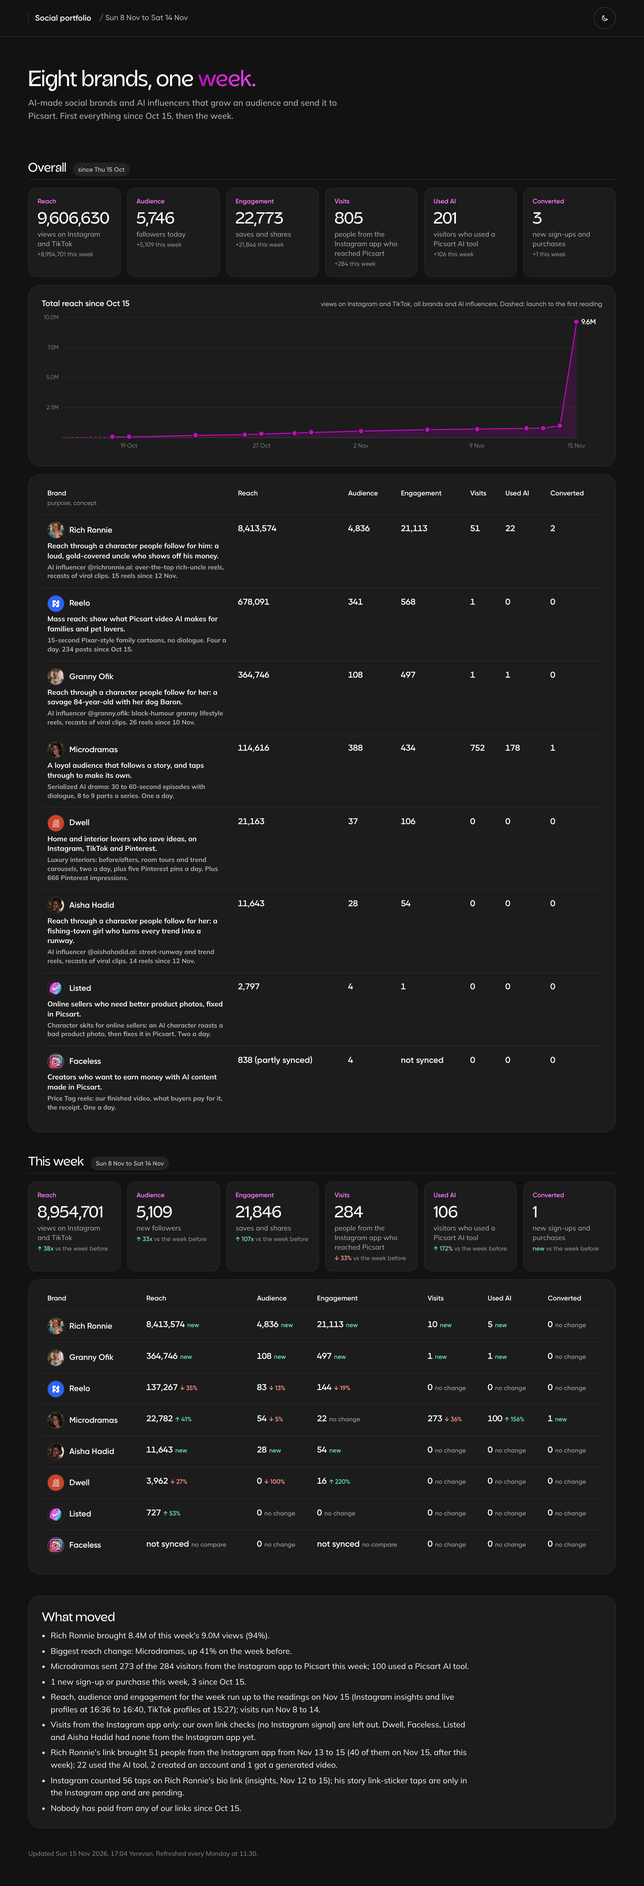
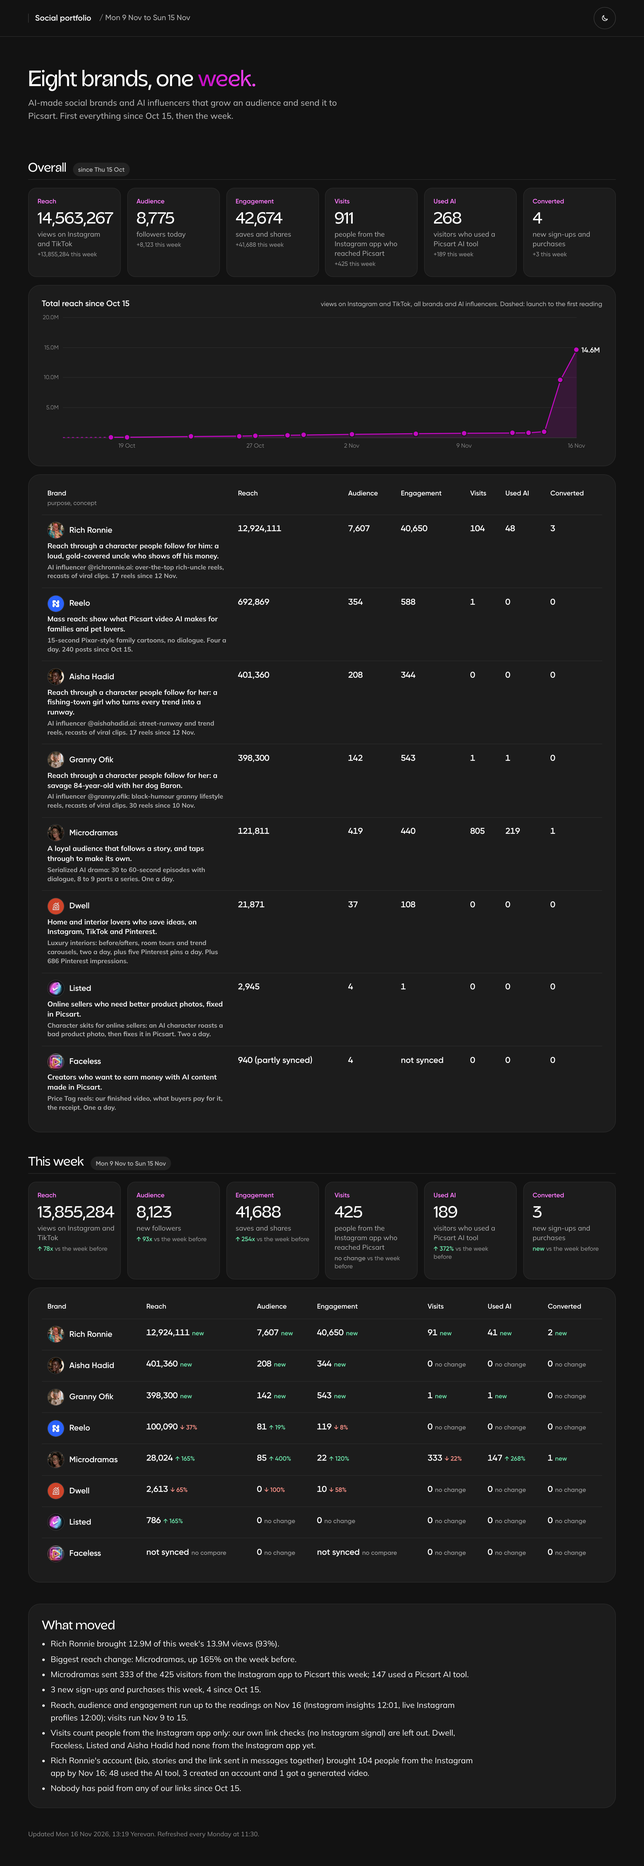
chore(portfolio): weekly refresh 2026-11-16

diff --git a/portfolio/index.html b/portfolio/index.html
@@ -95,7 +95,7 @@ small { display: block; color: var(--faint); font-family: var(--ui); font-weight
 <header class="top">
   <div class="top-in">
     <a class="brand" href="#main" aria-label="Social portfolio, back to top"><b>Social portfolio</b></a>
-    <span class="chname">/ Sun 8 Nov to Sat 14 Nov</span>
+    <span class="chname">/ Mon 9 Nov to Sun 15 Nov</span>
     <div class="tools">
       <button type="button" class="ibtn theme-btn" id="theme-btn" aria-label="Switch light or dark theme">
         <svg class="icon sun" aria-hidden="true"><use href="#i-sun"/></svg><svg class="icon moon" aria-hidden="true"><use href="#i-moon"/></svg>
@@ -111,33 +111,33 @@ small { display: block; color: var(--faint); font-family: var(--ui); font-weight
 
   <section class="sec" aria-labelledby="o-h">
     <div class="sec-head"><h2 id="o-h">Overall</h2><span class="pill">since Thu 15 Oct</span></div>
-    <div class="stats"><div class="stat"><span class="cls">Reach</span><b>9,606,630</b><span>views on Instagram and TikTok</span><small>+8,954,701 this week</small></div><div class="stat"><span class="cls">Audience</span><b>5,746</b><span>followers today</span><small>+5,109 this week</small></div><div class="stat"><span class="cls">Engagement</span><b>22,773</b><span>saves and shares</span><small>+21,846 this week</small></div><div class="stat"><span class="cls">Visits</span><b>805</b><span>people from the Instagram app who reached Picsart</span><small>+284 this week</small></div><div class="stat"><span class="cls">Used AI</span><b>201</b><span>visitors who used a Picsart AI tool</span><small>+106 this week</small></div><div class="stat"><span class="cls">Converted</span><b>3</b><span>new sign-ups and purchases</span><small>+1 this week</small></div></div>
+    <div class="stats"><div class="stat"><span class="cls">Reach</span><b>14,563,267</b><span>views on Instagram and TikTok</span><small>+13,855,284 this week</small></div><div class="stat"><span class="cls">Audience</span><b>8,775</b><span>followers today</span><small>+8,123 this week</small></div><div class="stat"><span class="cls">Engagement</span><b>42,674</b><span>saves and shares</span><small>+41,688 this week</small></div><div class="stat"><span class="cls">Visits</span><b>911</b><span>people from the Instagram app who reached Picsart</span><small>+425 this week</small></div><div class="stat"><span class="cls">Used AI</span><b>268</b><span>visitors who used a Picsart AI tool</span><small>+189 this week</small></div><div class="stat"><span class="cls">Converted</span><b>4</b><span>new sign-ups and purchases</span><small>+3 this week</small></div></div>
     <div class="panel chart">
       <div class="chart-head"><h3>Total reach since Oct 15</h3><span class="legend">views on Instagram and TikTok, all brands and AI influencers. Dashed: launch to the first reading</span></div>
-      <div class="lc"><div class="plot"><span class="gl" style="top:75.00%"><em>2.5M</em></span><span class="gl" style="top:50.00%"><em>5.0M</em></span><span class="gl" style="top:25.00%"><em>7.5M</em></span><span class="gl" style="top:0.00%"><em>10.0M</em></span><svg viewBox="0 0 100 100" preserveAspectRatio="none" aria-hidden="true"><polygon points="9.68,100 9.68,99.57 12.90,99.53 25.81,98.27 35.48,97.56 38.71,97.09 45.16,96.27 48.39,95.82 58.06,94.70 70.97,93.48 80.65,92.92 90.32,92.42 93.55,92.19 96.77,90.17 100.00,3.93 100,100" class="area"/><line x1="0" y1="100" x2="9.68" y2="99.57" class="gap"/><polyline points="9.68,99.57 12.90,99.53 25.81,98.27 35.48,97.56 38.71,97.09 45.16,96.27 48.39,95.82 58.06,94.70 70.97,93.48 80.65,92.92 90.32,92.42 93.55,92.19 96.77,90.17 100.00,3.93" class="line"/></svg><i class="pt" style="left:9.68%;top:99.57%" title="Sun 18 Oct: 43,455 views since Oct 15"></i><i class="pt" style="left:12.90%;top:99.53%" title="Mon 19 Oct: 47,382 views since Oct 15"></i><i class="pt" style="left:25.81%;top:98.27%" title="Fri 23 Oct: 172,542 views since Oct 15"></i><i class="pt" style="left:35.48%;top:97.56%" title="Mon 26 Oct: 243,696 views since Oct 15"></i><i class="pt" style="left:38.71%;top:97.09%" title="Tue 27 Oct: 290,562 views since Oct 15"></i><i class="pt" style="left:45.16%;top:96.27%" title="Thu 29 Oct: 373,202 views since Oct 15"></i><i class="pt" style="left:48.39%;top:95.82%" title="Fri 30 Oct: 417,714 views since Oct 15"></i><i class="pt" style="left:58.06%;top:94.70%" title="Mon 2 Nov: 529,873 views since Oct 15"></i><i class="pt" style="left:70.97%;top:93.48%" title="Fri 6 Nov: 651,929 views since Oct 15"></i><i class="pt" style="left:80.65%;top:92.92%" title="Mon 9 Nov: 707,983 views since Oct 15"></i><i class="pt" style="left:90.32%;top:92.42%" title="Thu 12 Nov: 757,683 views since Oct 15"></i><i class="pt" style="left:93.55%;top:92.19%" title="Fri 13 Nov: 780,725 views since Oct 15"></i><i class="pt" style="left:96.77%;top:90.17%" title="Sat 14 Nov: 982,936 views since Oct 15"></i><i class="pt" style="left:100.00%;top:3.93%" title="Sun 15 Nov: 9,606,630 views since Oct 15"></i><b class="last" style="left:100.00%;top:3.93%">9.6M</b></div><div class="xl"><span style="left:12.90%">19 Oct</span><span style="left:38.71%">27 Oct</span><span style="left:58.06%">2 Nov</span><span style="left:80.65%">9 Nov</span><span style="left:100.00%">15 Nov</span></div></div>
+      <div class="lc"><div class="plot"><span class="gl" style="top:75.00%"><em>5.0M</em></span><span class="gl" style="top:50.00%"><em>10.0M</em></span><span class="gl" style="top:25.00%"><em>15.0M</em></span><span class="gl" style="top:0.00%"><em>20.0M</em></span><svg viewBox="0 0 100 100" preserveAspectRatio="none" aria-hidden="true"><polygon points="9.38,100 9.38,99.78 12.50,99.76 25.00,99.14 34.38,98.78 37.50,98.55 43.75,98.13 46.88,97.91 56.25,97.35 68.75,96.74 78.12,96.46 87.50,96.21 90.62,96.10 93.75,95.09 96.88,51.97 100.00,27.18 100,100" class="area"/><line x1="0" y1="100" x2="9.38" y2="99.78" class="gap"/><polyline points="9.38,99.78 12.50,99.76 25.00,99.14 34.38,98.78 37.50,98.55 43.75,98.13 46.88,97.91 56.25,97.35 68.75,96.74 78.12,96.46 87.50,96.21 90.62,96.10 93.75,95.09 96.88,51.97 100.00,27.18" class="line"/></svg><i class="pt" style="left:9.38%;top:99.78%" title="Sun 18 Oct: 43,455 views since Oct 15"></i><i class="pt" style="left:12.50%;top:99.76%" title="Mon 19 Oct: 47,382 views since Oct 15"></i><i class="pt" style="left:25.00%;top:99.14%" title="Fri 23 Oct: 172,542 views since Oct 15"></i><i class="pt" style="left:34.38%;top:98.78%" title="Mon 26 Oct: 243,696 views since Oct 15"></i><i class="pt" style="left:37.50%;top:98.55%" title="Tue 27 Oct: 290,562 views since Oct 15"></i><i class="pt" style="left:43.75%;top:98.13%" title="Thu 29 Oct: 373,202 views since Oct 15"></i><i class="pt" style="left:46.88%;top:97.91%" title="Fri 30 Oct: 417,714 views since Oct 15"></i><i class="pt" style="left:56.25%;top:97.35%" title="Mon 2 Nov: 529,873 views since Oct 15"></i><i class="pt" style="left:68.75%;top:96.74%" title="Fri 6 Nov: 651,929 views since Oct 15"></i><i class="pt" style="left:78.12%;top:96.46%" title="Mon 9 Nov: 707,983 views since Oct 15"></i><i class="pt" style="left:87.50%;top:96.21%" title="Thu 12 Nov: 757,683 views since Oct 15"></i><i class="pt" style="left:90.62%;top:96.10%" title="Fri 13 Nov: 780,725 views since Oct 15"></i><i class="pt" style="left:93.75%;top:95.09%" title="Sat 14 Nov: 982,936 views since Oct 15"></i><i class="pt" style="left:96.88%;top:51.97%" title="Sun 15 Nov: 9,606,642 views since Oct 15"></i><i class="pt" style="left:100.00%;top:27.18%" title="Mon 16 Nov: 14,563,267 views since Oct 15"></i><b class="last" style="left:100.00%;top:27.18%">14.6M</b></div><div class="xl"><span style="left:12.50%">19 Oct</span><span style="left:37.50%">27 Oct</span><span style="left:56.25%">2 Nov</span><span style="left:78.12%">9 Nov</span><span style="left:100.00%">16 Nov</span></div></div>
     </div>
     <div class="panel tbl">
       <table class="pf pf-all">
         <thead><tr><th scope="col">Brand<small>purpose, concept</small></th><th scope="col">Reach</th><th scope="col">Audience</th><th scope="col">Engagement</th><th scope="col">Visits</th><th scope="col">Used AI</th><th scope="col">Converted</th></tr></thead>
-        <tbody><tr><th scope="row"><span class="bn"><img src="img/rich_ronnie.jpg" alt="">Rich Ronnie</span><span class="pp">Reach through a character people follow for him: a loud, gold-covered uncle who shows off his money.</span><span class="cc">AI influencer @richronnie.ai: over-the-top rich-uncle reels, recasts of viral clips. 15 reels since 12 Nov.</span></th><td data-label="Reach"><b class="n">8,413,574</b></td><td data-label="Audience"><b class="n">4,836</b></td><td data-label="Engagement"><b class="n">21,113</b></td><td data-label="Visits"><b class="n">51</b></td><td data-label="Used AI"><b class="n">22</b></td><td data-label="Converted"><b class="n">2</b></td></tr><tr><th scope="row"><span class="bn"><img src="img/reelo.jpg" alt="">Reelo</span><span class="pp">Mass reach: show what Picsart video AI makes for families and pet lovers.</span><span class="cc">15-second Pixar-style family cartoons, no dialogue. Four a day. 234 posts since Oct 15.</span></th><td data-label="Reach"><b class="n">678,091</b></td><td data-label="Audience"><b class="n">341</b></td><td data-label="Engagement"><b class="n">568</b></td><td data-label="Visits"><b class="n">1</b></td><td data-label="Used AI"><b class="n">0</b></td><td data-label="Converted"><b class="n">0</b></td></tr><tr><th scope="row"><span class="bn"><img src="img/granny_ofik.jpg" alt="">Granny Ofik</span><span class="pp">Reach through a character people follow for her: a savage 84-year-old with her dog Baron.</span><span class="cc">AI influencer @granny.ofik: black-humour granny lifestyle reels, recasts of viral clips. 26 reels since 10 Nov.</span></th><td data-label="Reach"><b class="n">364,746</b></td><td data-label="Audience"><b class="n">108</b></td><td data-label="Engagement"><b class="n">497</b></td><td data-label="Visits"><b class="n">1</b></td><td data-label="Used AI"><b class="n">1</b></td><td data-label="Converted"><b class="n">0</b></td></tr><tr><th scope="row"><span class="bn"><img src="img/microdramas.jpg" alt="">Microdramas</span><span class="pp">A loyal audience that follows a story, and taps through to make its own.</span><span class="cc">Serialized AI drama: 30 to 60-second episodes with dialogue, 8 to 9 parts a series. One a day. </span></th><td data-label="Reach"><b class="n">114,616</b></td><td data-label="Audience"><b class="n">388</b></td><td data-label="Engagement"><b class="n">434</b></td><td data-label="Visits"><b class="n">752</b></td><td data-label="Used AI"><b class="n">178</b></td><td data-label="Converted"><b class="n">1</b></td></tr><tr><th scope="row"><span class="bn"><img src="img/dwell.jpg" alt="">Dwell</span><span class="pp">Home and interior lovers who save ideas, on Instagram, TikTok and Pinterest.</span><span class="cc">Luxury interiors: before/afters, room tours and trend carousels, two a day, plus five Pinterest pins a day. Plus 666 Pinterest impressions. </span></th><td data-label="Reach"><b class="n">21,163</b></td><td data-label="Audience"><b class="n">37</b></td><td data-label="Engagement"><b class="n">106</b></td><td data-label="Visits"><b class="n">0</b></td><td data-label="Used AI"><b class="n">0</b></td><td data-label="Converted"><b class="n">0</b></td></tr><tr><th scope="row"><span class="bn"><img src="img/aisha_hadid.jpg" alt="">Aisha Hadid</span><span class="pp">Reach through a character people follow for her: a fishing-town girl who turns every trend into a runway.</span><span class="cc">AI influencer @aishahadid.ai: street-runway and trend reels, recasts of viral clips. 14 reels since 12 Nov.</span></th><td data-label="Reach"><b class="n">11,643</b></td><td data-label="Audience"><b class="n">28</b></td><td data-label="Engagement"><b class="n">54</b></td><td data-label="Visits"><b class="n">0</b></td><td data-label="Used AI"><b class="n">0</b></td><td data-label="Converted"><b class="n">0</b></td></tr><tr><th scope="row"><span class="bn"><img src="img/listed.jpg" alt="">Listed</span><span class="pp">Online sellers who need better product photos, fixed in Picsart.</span><span class="cc">Character skits for online sellers: an AI character roasts a bad product photo, then fixes it in Picsart. Two a day. </span></th><td data-label="Reach"><b class="n">2,797</b></td><td data-label="Audience"><b class="n">4</b></td><td data-label="Engagement"><b class="n">1</b></td><td data-label="Visits"><b class="n">0</b></td><td data-label="Used AI"><b class="n">0</b></td><td data-label="Converted"><b class="n">0</b></td></tr><tr><th scope="row"><span class="bn"><img src="img/faceless.jpg" alt="">Faceless</span><span class="pp">Creators who want to earn money with AI content made in Picsart.</span><span class="cc">Price Tag reels: our finished video, what buyers pay for it, the receipt. One a day. </span></th><td data-label="Reach"><b class="n">838 (partly synced)</b></td><td data-label="Audience"><b class="n">4</b></td><td data-label="Engagement"><b class="n">not synced</b></td><td data-label="Visits"><b class="n">0</b></td><td data-label="Used AI"><b class="n">0</b></td><td data-label="Converted"><b class="n">0</b></td></tr></tbody>
+        <tbody><tr><th scope="row"><span class="bn"><img src="img/rich_ronnie.jpg" alt="">Rich Ronnie</span><span class="pp">Reach through a character people follow for him: a loud, gold-covered uncle who shows off his money.</span><span class="cc">AI influencer @richronnie.ai: over-the-top rich-uncle reels, recasts of viral clips. 17 reels since 12 Nov.</span></th><td data-label="Reach"><b class="n">12,924,111</b></td><td data-label="Audience"><b class="n">7,607</b></td><td data-label="Engagement"><b class="n">40,650</b></td><td data-label="Visits"><b class="n">104</b></td><td data-label="Used AI"><b class="n">48</b></td><td data-label="Converted"><b class="n">3</b></td></tr><tr><th scope="row"><span class="bn"><img src="img/reelo.jpg" alt="">Reelo</span><span class="pp">Mass reach: show what Picsart video AI makes for families and pet lovers.</span><span class="cc">15-second Pixar-style family cartoons, no dialogue. Four a day. 240 posts since Oct 15.</span></th><td data-label="Reach"><b class="n">692,869</b></td><td data-label="Audience"><b class="n">354</b></td><td data-label="Engagement"><b class="n">588</b></td><td data-label="Visits"><b class="n">1</b></td><td data-label="Used AI"><b class="n">0</b></td><td data-label="Converted"><b class="n">0</b></td></tr><tr><th scope="row"><span class="bn"><img src="img/aisha_hadid.jpg" alt="">Aisha Hadid</span><span class="pp">Reach through a character people follow for her: a fishing-town girl who turns every trend into a runway.</span><span class="cc">AI influencer @aishahadid.ai: street-runway and trend reels, recasts of viral clips. 17 reels since 12 Nov.</span></th><td data-label="Reach"><b class="n">401,360</b></td><td data-label="Audience"><b class="n">208</b></td><td data-label="Engagement"><b class="n">344</b></td><td data-label="Visits"><b class="n">0</b></td><td data-label="Used AI"><b class="n">0</b></td><td data-label="Converted"><b class="n">0</b></td></tr><tr><th scope="row"><span class="bn"><img src="img/granny_ofik.jpg" alt="">Granny Ofik</span><span class="pp">Reach through a character people follow for her: a savage 84-year-old with her dog Baron.</span><span class="cc">AI influencer @granny.ofik: black-humour granny lifestyle reels, recasts of viral clips. 30 reels since 10 Nov.</span></th><td data-label="Reach"><b class="n">398,300</b></td><td data-label="Audience"><b class="n">142</b></td><td data-label="Engagement"><b class="n">543</b></td><td data-label="Visits"><b class="n">1</b></td><td data-label="Used AI"><b class="n">1</b></td><td data-label="Converted"><b class="n">0</b></td></tr><tr><th scope="row"><span class="bn"><img src="img/microdramas.jpg" alt="">Microdramas</span><span class="pp">A loyal audience that follows a story, and taps through to make its own.</span><span class="cc">Serialized AI drama: 30 to 60-second episodes with dialogue, 8 to 9 parts a series. One a day. </span></th><td data-label="Reach"><b class="n">121,811</b></td><td data-label="Audience"><b class="n">419</b></td><td data-label="Engagement"><b class="n">440</b></td><td data-label="Visits"><b class="n">805</b></td><td data-label="Used AI"><b class="n">219</b></td><td data-label="Converted"><b class="n">1</b></td></tr><tr><th scope="row"><span class="bn"><img src="img/dwell.jpg" alt="">Dwell</span><span class="pp">Home and interior lovers who save ideas, on Instagram, TikTok and Pinterest.</span><span class="cc">Luxury interiors: before/afters, room tours and trend carousels, two a day, plus five Pinterest pins a day. Plus 686 Pinterest impressions. </span></th><td data-label="Reach"><b class="n">21,871</b></td><td data-label="Audience"><b class="n">37</b></td><td data-label="Engagement"><b class="n">108</b></td><td data-label="Visits"><b class="n">0</b></td><td data-label="Used AI"><b class="n">0</b></td><td data-label="Converted"><b class="n">0</b></td></tr><tr><th scope="row"><span class="bn"><img src="img/listed.jpg" alt="">Listed</span><span class="pp">Online sellers who need better product photos, fixed in Picsart.</span><span class="cc">Character skits for online sellers: an AI character roasts a bad product photo, then fixes it in Picsart. Two a day. </span></th><td data-label="Reach"><b class="n">2,945</b></td><td data-label="Audience"><b class="n">4</b></td><td data-label="Engagement"><b class="n">1</b></td><td data-label="Visits"><b class="n">0</b></td><td data-label="Used AI"><b class="n">0</b></td><td data-label="Converted"><b class="n">0</b></td></tr><tr><th scope="row"><span class="bn"><img src="img/faceless.jpg" alt="">Faceless</span><span class="pp">Creators who want to earn money with AI content made in Picsart.</span><span class="cc">Price Tag reels: our finished video, what buyers pay for it, the receipt. One a day. </span></th><td data-label="Reach"><b class="n">940 (partly synced)</b></td><td data-label="Audience"><b class="n">4</b></td><td data-label="Engagement"><b class="n">not synced</b></td><td data-label="Visits"><b class="n">0</b></td><td data-label="Used AI"><b class="n">0</b></td><td data-label="Converted"><b class="n">0</b></td></tr></tbody>
       </table>
     </div>
   </section>
 
   <section class="sec" aria-labelledby="w-h">
-    <div class="sec-head"><h2 id="w-h">This week</h2><span class="pill">Sun 8 Nov to Sat 14 Nov</span></div>
-    <div class="stats"><div class="stat"><span class="cls">Reach</span><b>8,954,701</b><span>views on Instagram and TikTok</span><small><span class="wow up">&uarr; 38x</span> vs the week before</small></div><div class="stat"><span class="cls">Audience</span><b>5,109</b><span>new followers</span><small><span class="wow up">&uarr; 33x</span> vs the week before</small></div><div class="stat"><span class="cls">Engagement</span><b>21,846</b><span>saves and shares</span><small><span class="wow up">&uarr; 107x</span> vs the week before</small></div><div class="stat"><span class="cls">Visits</span><b>284</b><span>people from the Instagram app who reached Picsart</span><small><span class="wow down">&darr; 33%</span> vs the week before</small></div><div class="stat"><span class="cls">Used AI</span><b>106</b><span>visitors who used a Picsart AI tool</span><small><span class="wow up">&uarr; 172%</span> vs the week before</small></div><div class="stat"><span class="cls">Converted</span><b>1</b><span>new sign-ups and purchases</span><small><span class="wow up">new</span> vs the week before</small></div></div>
+    <div class="sec-head"><h2 id="w-h">This week</h2><span class="pill">Mon 9 Nov to Sun 15 Nov</span></div>
+    <div class="stats"><div class="stat"><span class="cls">Reach</span><b>13,855,284</b><span>views on Instagram and TikTok</span><small><span class="wow up">&uarr; 78x</span> vs the week before</small></div><div class="stat"><span class="cls">Audience</span><b>8,123</b><span>new followers</span><small><span class="wow up">&uarr; 93x</span> vs the week before</small></div><div class="stat"><span class="cls">Engagement</span><b>41,688</b><span>saves and shares</span><small><span class="wow up">&uarr; 254x</span> vs the week before</small></div><div class="stat"><span class="cls">Visits</span><b>425</b><span>people from the Instagram app who reached Picsart</span><small><span class="wow">no change</span> vs the week before</small></div><div class="stat"><span class="cls">Used AI</span><b>189</b><span>visitors who used a Picsart AI tool</span><small><span class="wow up">&uarr; 372%</span> vs the week before</small></div><div class="stat"><span class="cls">Converted</span><b>3</b><span>new sign-ups and purchases</span><small><span class="wow up">new</span> vs the week before</small></div></div>
     <div class="panel tbl">
       <table class="pf pf-week">
         <thead><tr><th scope="col">Brand</th><th scope="col">Reach</th><th scope="col">Audience</th><th scope="col">Engagement</th><th scope="col">Visits</th><th scope="col">Used AI</th><th scope="col">Converted</th></tr></thead>
-        <tbody><tr><th scope="row"><span class="bn"><img src="img/rich_ronnie.jpg" alt="">Rich Ronnie</span></th><td data-label="Reach"><b class="n">8,413,574</b><span class="wow up">new</span></td><td data-label="Audience"><b class="n">4,836</b><span class="wow up">new</span></td><td data-label="Engagement"><b class="n">21,113</b><span class="wow up">new</span></td><td data-label="Visits"><b class="n">10</b><span class="wow up">new</span></td><td data-label="Used AI"><b class="n">5</b><span class="wow up">new</span></td><td data-label="Converted"><b class="n">0</b><span class="wow">no change</span></td></tr><tr><th scope="row"><span class="bn"><img src="img/granny_ofik.jpg" alt="">Granny Ofik</span></th><td data-label="Reach"><b class="n">364,746</b><span class="wow up">new</span></td><td data-label="Audience"><b class="n">108</b><span class="wow up">new</span></td><td data-label="Engagement"><b class="n">497</b><span class="wow up">new</span></td><td data-label="Visits"><b class="n">1</b><span class="wow up">new</span></td><td data-label="Used AI"><b class="n">1</b><span class="wow up">new</span></td><td data-label="Converted"><b class="n">0</b><span class="wow">no change</span></td></tr><tr><th scope="row"><span class="bn"><img src="img/reelo.jpg" alt="">Reelo</span></th><td data-label="Reach"><b class="n">137,267</b><span class="wow down">&darr; 35%</span></td><td data-label="Audience"><b class="n">83</b><span class="wow down">&darr; 13%</span></td><td data-label="Engagement"><b class="n">144</b><span class="wow down">&darr; 19%</span></td><td data-label="Visits"><b class="n">0</b><span class="wow">no change</span></td><td data-label="Used AI"><b class="n">0</b><span class="wow">no change</span></td><td data-label="Converted"><b class="n">0</b><span class="wow">no change</span></td></tr><tr><th scope="row"><span class="bn"><img src="img/microdramas.jpg" alt="">Microdramas</span></th><td data-label="Reach"><b class="n">22,782</b><span class="wow up">&uarr; 41%</span></td><td data-label="Audience"><b class="n">54</b><span class="wow down">&darr; 5%</span></td><td data-label="Engagement"><b class="n">22</b><span class="wow">no change</span></td><td data-label="Visits"><b class="n">273</b><span class="wow down">&darr; 36%</span></td><td data-label="Used AI"><b class="n">100</b><span class="wow up">&uarr; 156%</span></td><td data-label="Converted"><b class="n">1</b><span class="wow up">new</span></td></tr><tr><th scope="row"><span class="bn"><img src="img/aisha_hadid.jpg" alt="">Aisha Hadid</span></th><td data-label="Reach"><b class="n">11,643</b><span class="wow up">new</span></td><td data-label="Audience"><b class="n">28</b><span class="wow up">new</span></td><td data-label="Engagement"><b class="n">54</b><span class="wow up">new</span></td><td data-label="Visits"><b class="n">0</b><span class="wow">no change</span></td><td data-label="Used AI"><b class="n">0</b><span class="wow">no change</span></td><td data-label="Converted"><b class="n">0</b><span class="wow">no change</span></td></tr><tr><th scope="row"><span class="bn"><img src="img/dwell.jpg" alt="">Dwell</span></th><td data-label="Reach"><b class="n">3,962</b><span class="wow down">&darr; 27%</span></td><td data-label="Audience"><b class="n">0</b><span class="wow down">&darr; 100%</span></td><td data-label="Engagement"><b class="n">16</b><span class="wow up">&uarr; 220%</span></td><td data-label="Visits"><b class="n">0</b><span class="wow">no change</span></td><td data-label="Used AI"><b class="n">0</b><span class="wow">no change</span></td><td data-label="Converted"><b class="n">0</b><span class="wow">no change</span></td></tr><tr><th scope="row"><span class="bn"><img src="img/listed.jpg" alt="">Listed</span></th><td data-label="Reach"><b class="n">727</b><span class="wow up">&uarr; 53%</span></td><td data-label="Audience"><b class="n">0</b><span class="wow">no change</span></td><td data-label="Engagement"><b class="n">0</b><span class="wow">no change</span></td><td data-label="Visits"><b class="n">0</b><span class="wow">no change</span></td><td data-label="Used AI"><b class="n">0</b><span class="wow">no change</span></td><td data-label="Converted"><b class="n">0</b><span class="wow">no change</span></td></tr><tr><th scope="row"><span class="bn"><img src="img/faceless.jpg" alt="">Faceless</span></th><td data-label="Reach"><b class="n">not synced</b><span class="wow">no compare</span></td><td data-label="Audience"><b class="n">0</b><span class="wow">no change</span></td><td data-label="Engagement"><b class="n">not synced</b><span class="wow">no compare</span></td><td data-label="Visits"><b class="n">0</b><span class="wow">no change</span></td><td data-label="Used AI"><b class="n">0</b><span class="wow">no change</span></td><td data-label="Converted"><b class="n">0</b><span class="wow">no change</span></td></tr></tbody>
+        <tbody><tr><th scope="row"><span class="bn"><img src="img/rich_ronnie.jpg" alt="">Rich Ronnie</span></th><td data-label="Reach"><b class="n">12,924,111</b><span class="wow up">new</span></td><td data-label="Audience"><b class="n">7,607</b><span class="wow up">new</span></td><td data-label="Engagement"><b class="n">40,650</b><span class="wow up">new</span></td><td data-label="Visits"><b class="n">91</b><span class="wow up">new</span></td><td data-label="Used AI"><b class="n">41</b><span class="wow up">new</span></td><td data-label="Converted"><b class="n">2</b><span class="wow up">new</span></td></tr><tr><th scope="row"><span class="bn"><img src="img/aisha_hadid.jpg" alt="">Aisha Hadid</span></th><td data-label="Reach"><b class="n">401,360</b><span class="wow up">new</span></td><td data-label="Audience"><b class="n">208</b><span class="wow up">new</span></td><td data-label="Engagement"><b class="n">344</b><span class="wow up">new</span></td><td data-label="Visits"><b class="n">0</b><span class="wow">no change</span></td><td data-label="Used AI"><b class="n">0</b><span class="wow">no change</span></td><td data-label="Converted"><b class="n">0</b><span class="wow">no change</span></td></tr><tr><th scope="row"><span class="bn"><img src="img/granny_ofik.jpg" alt="">Granny Ofik</span></th><td data-label="Reach"><b class="n">398,300</b><span class="wow up">new</span></td><td data-label="Audience"><b class="n">142</b><span class="wow up">new</span></td><td data-label="Engagement"><b class="n">543</b><span class="wow up">new</span></td><td data-label="Visits"><b class="n">1</b><span class="wow up">new</span></td><td data-label="Used AI"><b class="n">1</b><span class="wow up">new</span></td><td data-label="Converted"><b class="n">0</b><span class="wow">no change</span></td></tr><tr><th scope="row"><span class="bn"><img src="img/reelo.jpg" alt="">Reelo</span></th><td data-label="Reach"><b class="n">100,090</b><span class="wow down">&darr; 37%</span></td><td data-label="Audience"><b class="n">81</b><span class="wow up">&uarr; 19%</span></td><td data-label="Engagement"><b class="n">119</b><span class="wow down">&darr; 8%</span></td><td data-label="Visits"><b class="n">0</b><span class="wow">no change</span></td><td data-label="Used AI"><b class="n">0</b><span class="wow">no change</span></td><td data-label="Converted"><b class="n">0</b><span class="wow">no change</span></td></tr><tr><th scope="row"><span class="bn"><img src="img/microdramas.jpg" alt="">Microdramas</span></th><td data-label="Reach"><b class="n">28,024</b><span class="wow up">&uarr; 165%</span></td><td data-label="Audience"><b class="n">85</b><span class="wow up">&uarr; 400%</span></td><td data-label="Engagement"><b class="n">22</b><span class="wow up">&uarr; 120%</span></td><td data-label="Visits"><b class="n">333</b><span class="wow down">&darr; 22%</span></td><td data-label="Used AI"><b class="n">147</b><span class="wow up">&uarr; 268%</span></td><td data-label="Converted"><b class="n">1</b><span class="wow up">new</span></td></tr><tr><th scope="row"><span class="bn"><img src="img/dwell.jpg" alt="">Dwell</span></th><td data-label="Reach"><b class="n">2,613</b><span class="wow down">&darr; 65%</span></td><td data-label="Audience"><b class="n">0</b><span class="wow down">&darr; 100%</span></td><td data-label="Engagement"><b class="n">10</b><span class="wow down">&darr; 58%</span></td><td data-label="Visits"><b class="n">0</b><span class="wow">no change</span></td><td data-label="Used AI"><b class="n">0</b><span class="wow">no change</span></td><td data-label="Converted"><b class="n">0</b><span class="wow">no change</span></td></tr><tr><th scope="row"><span class="bn"><img src="img/listed.jpg" alt="">Listed</span></th><td data-label="Reach"><b class="n">786</b><span class="wow up">&uarr; 165%</span></td><td data-label="Audience"><b class="n">0</b><span class="wow">no change</span></td><td data-label="Engagement"><b class="n">0</b><span class="wow">no change</span></td><td data-label="Visits"><b class="n">0</b><span class="wow">no change</span></td><td data-label="Used AI"><b class="n">0</b><span class="wow">no change</span></td><td data-label="Converted"><b class="n">0</b><span class="wow">no change</span></td></tr><tr><th scope="row"><span class="bn"><img src="img/faceless.jpg" alt="">Faceless</span></th><td data-label="Reach"><b class="n">not synced</b><span class="wow">no compare</span></td><td data-label="Audience"><b class="n">0</b><span class="wow">no change</span></td><td data-label="Engagement"><b class="n">not synced</b><span class="wow">no compare</span></td><td data-label="Visits"><b class="n">0</b><span class="wow">no change</span></td><td data-label="Used AI"><b class="n">0</b><span class="wow">no change</span></td><td data-label="Converted"><b class="n">0</b><span class="wow">no change</span></td></tr></tbody>
       </table>
     </div>
   </section>
 
-  <section class="panel moved" aria-labelledby="m-h"><h2 id="m-h">What moved</h2><ul><li>Rich Ronnie brought 8.4M of this week&#x27;s 9.0M views (94%).</li><li>Biggest reach change: Microdramas, up 41% on the week before.</li><li>Microdramas sent 273 of the 284 visitors from the Instagram app to Picsart this week; 100 used a Picsart AI tool.</li><li>1 new sign-up or purchase this week, 3 since Oct 15.</li><li>Reach, audience and engagement for the week run up to the readings on Nov 15 (Instagram insights and live profiles at 16:36 to 16:40, TikTok profiles at 15:27); visits run Nov 8 to 14.</li><li>Visits from the Instagram app only: our own link checks (no Instagram signal) are left out. Dwell, Faceless, Listed and Aisha Hadid had none from the Instagram app yet.</li><li>Rich Ronnie&#x27;s link brought 51 people from the Instagram app from Nov 13 to 15 (40 of them on Nov 15, after this week); 22 used the AI tool, 2 created an account and 1 got a generated video.</li><li>Instagram counted 56 taps on Rich Ronnie&#x27;s bio link (insights, Nov 12 to 15); his story link-sticker taps are only in the Instagram app and are pending.</li><li>Nobody has paid from any of our links since Oct 15.</li></ul></section>
+  <section class="panel moved" aria-labelledby="m-h"><h2 id="m-h">What moved</h2><ul><li>Rich Ronnie brought 12.9M of this week&#x27;s 13.9M views (93%).</li><li>Biggest reach change: Microdramas, up 165% on the week before.</li><li>Microdramas sent 333 of the 425 visitors from the Instagram app to Picsart this week; 147 used a Picsart AI tool.</li><li>3 new sign-ups and purchases this week, 4 since Oct 15.</li><li>Reach, audience and engagement run up to the readings on Nov 16 (Instagram insights 12:01, live Instagram profiles 12:00); visits run Nov 9 to 15.</li><li>Visits count people from the Instagram app only: our own link checks (no Instagram signal) are left out. Dwell, Faceless, Listed and Aisha Hadid had none from the Instagram app yet.</li><li>Rich Ronnie&#x27;s account (bio, stories and the link sent in messages together) brought 104 people from the Instagram app by Nov 16; 48 used the AI tool, 3 created an account and 1 got a generated video.</li><li>Nobody has paid from any of our links since Oct 15.</li></ul></section>
   <footer class="foot">
-    <p>Updated Sun 15 Nov 2026, 17:04 Yerevan. Refreshed every Monday at 11:30.</p>
+    <p>Updated Mon 16 Nov 2026, 13:19 Yerevan. Refreshed every Monday at 11:30.</p>
   </footer>
 </main>
 <script>
